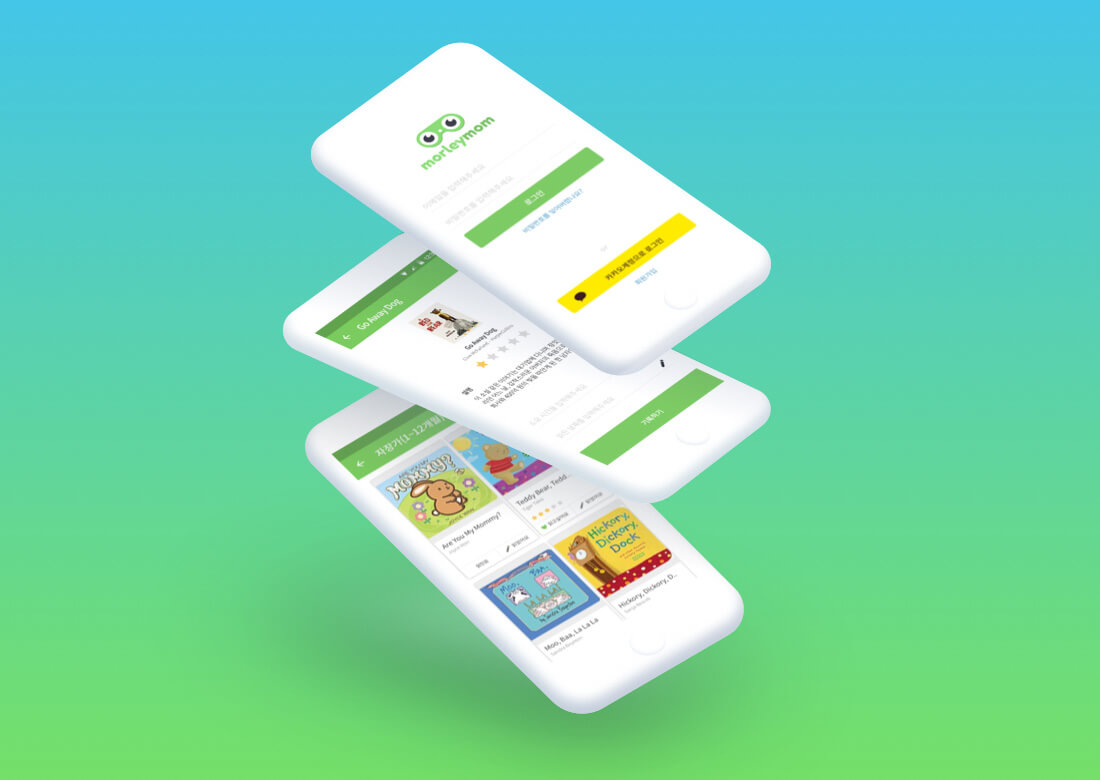
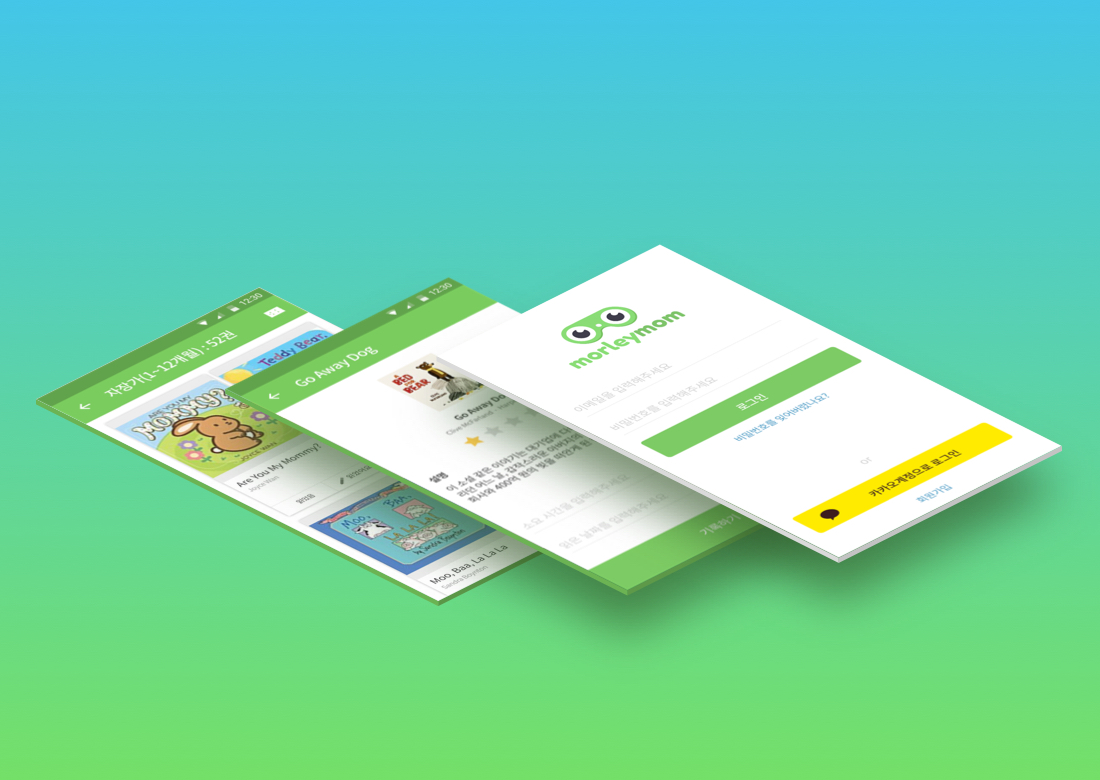
* Update content

diff --git a/src/views/projects/ebsrc.html b/src/views/projects/ebsrc.html
@@ -46,68 +46,139 @@
 				<a href="http://www.ebsreadingclub.com" target="_blank" class="button">사이트 바로가기</a>
 			</div>
 
-			<div class="visual">
-				<div class="fixed-wrap">
-					<img src="/contents/img/projects/ebsrc/device@2x.jpg" alt="Device" class="sa-v3" />
+			<ol class="image-pieces piece3 no-border fixed-wrap">
+				<li><img src="/contents/img/projects/ebsrc/app-mobile1@2x.jpg" alt="sketch1" /></li>
+				<li class="align-center">
+					<img src="/contents/img/projects/ebsrc/app-icon@2x.png" alt="sketch2" />
+					<p>
+						시간, 비용 등의 부족한 당신을 위해<br>
+					 	온라인에서든, 오프라인에서든<br>
+					 	쉽고 반복적으로<br>
+					 	오랫동안 함께 할 수 있는 서비스를 제공합니다.
+					</p>
+				</li>
+				<li><img src="/contents/img/projects/ebsrc/app-mobile2@2x.jpg" alt="sketch3" /></li>
+			</ol>
+
+			<div id="concept" class="description fixed-wrap">
+				<h4>Concept</h4>
+				<p>
+					국내 교육 시장에서 신뢰를 받는 EBS 미디어, 100년 이상의 오랜 역사와 전통을 가진 옥스포드 대학 출판부의 이미지를 시각화하기 위해<br>
+					연두와 파랑 두 가지 컬러를 대조시켜 배치함으로써 근명한 차이를 유도하였습니다.<br>
+					EBS 리딩클럽의 래플리카로 중국/일본 프로젝트를 동시에 진행했는데 사이트가 가진 Look & Feel을 유지할 수 있도록 한/중/일 언어를 제공하는 Noto Sans CJK 폰트를 사용하여 서비스의 일관성을 유지하도록 했습니다.
+				</p>
+
+				<div class="pieces">
+					<div id="concept-color">
+						<h5>Color</h5>
+						<ul>
+							<li>#78cd13</li>
+							<li>#1f2d5f</li>
+							<li>#ffffff</li>
+							<li>#BCAB74</li>
+						</ul>
+					</div>
+					<div id="concept-font">
+						<h5>Font</h5>
+						<ul>
+							<li>Noto Sans CJK KR DemiLight</li>
+							<li>Noto Sans CJK KR Medium</li>
+							<li>Noto Sans CJK KR Bold</li>
+						</ul>
+					</div>
 				</div>
 			</div>
 		</section>
 
-		<section class="sa-v2">
+		<section id="site-flow" class="sa-v2">
 			<div class="description fixed-wrap">
 				<h3>SITE FLOW</h3>
 				<p>
-					입사 후 처음 맡게 되는 프로젝트로서 서비스의 UI/UX를 진행했습니다.<br>
+					iPortfolio에서의 첫 번째 프로젝트로서, 자체 서비스의 UI/UX 업무를 진행했습니다. EBS 리딩클럽은 iOS, Android, Web을 제공하고 있는 멀티 크로스 플랫폼입니다.<br>
 					디자인, 개발이 동시에 진행되다 보니 디테일한 부분에서 Web, Android, iOS 개발자가 생각하는 완성된 기준이 달랐고,<br>
-					제공되는 기능 또한 적지 않아서 커뮤니케이션의 혼선을 줄이기 위해서 초기 작업은 프로세스 플로어 및 UI 가이드라인 작업에 집중했습니다.
+					제공되는 기능 또한 적지 않았습니다. 커뮤니케이션의 혼선을 줄이기 위해서 초기 작업은 프로세스 플로어, 사용자 인터페이스 및 UI 가이드라인 제작에 기여했습니다.
 				</p>
 			</div>
 
-			<div class="fixed-wrap">
-				<img src="/contents/img/projects/ebsrc/site-flow@2x.png" alt="Site flow" class="sa-v3" />
+			<div class="fixed-wrap wide">
+				<img src="/contents/img/projects/ebsrc/site-flow.jpg" alt="Site flow" class="sa-v3" />
 			</div>
 		</section>
 
-		<section id="idea-sketch" class="sa-v2">
-			<div class="description fixed-wrap">
-				<h3>IDEA SKETCH</h3>
-			</div>
+    <section id="signin" class="sa-v2 no-margin">
+      <div class="fixed-wrap wide">
+        <img src="/contents/img/projects/ebsrc/signin@2x.png" alt="signin" class="signin-img sa-v3" />
+      </div>
+    </section>
 
-			<ol class="image-pieces piece2 no-border fixed-wrap">
-				<li><img src="/contents/img/projects/ebsrc/sketch1@2x.png" alt="sketch1" /></li>
-				<li><img src="/contents/img/projects/ebsrc/sketch2@2x.png" alt="sketch2" /></li>
-			</ol>
-		</section>
+    <section id="features" class="sa-v2 no-margin">
+      <div id="bookshelf" class="wide">
+        <div class="fixed-wrap absolute-wrap">
+          <h3>Bookshelf</h3>
+          <p>
+            회원 가입을 하면 시리즈를 대표하는 도서 20권이 무료로 제공됩니다.<br>
+            자체적으로 개발한 MDR 학습법은 도서를 읽는 기능과 더불어 책 속에 있는<br>
+            단어와 문장들로 스펠링/카드 게임, 듣기, 말하기 기능을 제공합니다.<br>
+            Web으로 접근 시 데스크톱에서만 이용할 수 있고,<br>
+            태블릿과 모바일 디바이스를 사용하고 싶으면 앱을 다운로드 받아 사용할 수 있습니다.
+          </p>
+          <img src="/contents/img/projects/ebsrc/bookshelf@2x.png" alt="signin" class="signin-img sa-v3" />
+        </div>
+      </div>
 
-		<section id="design" class="sa-v2">
-			<div class="description fixed-wrap">
-				<h3>DESIGN</h3>
-				<p>
-					PC와 모바일의 반응형 디자인
-				</p>
-			</div>
+      <div id="attendance" class="wide">
+        <div class="fixed-wrap absolute-wrap">
+          <h3>Attendance</h3>
+          <p>
+            최초 시나리오는 사용자가 출석 버튼을 직접 눌러 기록하는 방식이었습니다.<br>
+            그로 인해 발생한 문제점은 출석에 대한 보상 효과가 메달 아이콘 이외는
+            제공되지 않아 사용자는 기능이 존재하는지 모르는 경우가 대부분이었습니다.<br>
+            개선하는 방법으로 사용자가 로그인하면 자동 출석 되는 시스템으로 변경하였습니다.<br>
+            서비스를 언제 이용했는지 학습일을 기록할 수 있어 변경된 방식이 만족스럽다는 피드백을 받았습니다.
+          </p>
 
-			<ol class="image-pieces fixed-wrap">
-				<li><img src="/contents/img/projects/ebsrc/design1@2x.jpg" alt="design1" /></li>
-        <li><img src="/contents/img/projects/ebsrc/design2@2x.jpg" alt="design2" /></li>
-				<li><img src="/contents/img/projects/ebsrc/design3@2x.jpg" alt="design3" /></li>
-        <li><img src="/contents/img/projects/ebsrc/design4@2x.jpg" alt="design4" /></li>
-			</ol>
-		</section>
+          <img src="/contents/img/projects/ebsrc/attendance@2x.png" alt="attendance" class="attendance-img sa-v3" />
+        </div>
+      </div>
 
-    <!--<section>-->
-      <!--<div class="description fixed-wrap">-->
-        <!--<h3>SERVICE DESIGN PROCESS</h3>-->
-        <!--<p>-->
-          <!--간단한 설명 필요-->
-        <!--</p>-->
-      <!--</div>-->
+      <div id="medal" class="wide">
+        <div class="fixed-wrap">
+          <h3>Medal system</h3>
+          <p>
+            출석 및 단어 암기, 녹음 문장 작성하기 등 보상을 위해 매달 시스템을 만들었습니다.
+          </p>
+        </div>
 
-      <!--<ol class="image-pieces fixed-wrap">-->
-        <!--<li><img src="/contents/img/projects/ipf/site-before.png" alt="before" /></li>-->
-        <!--<li><img src="/contents/img/projects/ipf/site-after.png" alt="after" /></li>-->
-      <!--</ol>-->
-    <!--</section>-->
+        <div class="process fixed-wrap">
+          <h4>initial logo concept</h4>
+          <ul class="image-pieces nowrap no-border">
+            <li><img src="/contents/img/projects/ebsrc/sketch-medal1@2x.png" alt="sketch1" class="sa-v3" /></li>
+            <li><img src="/contents/img/projects/ebsrc/sketch-medal2@2x.png" alt="sketch1" class="sa-v3" /></li>
+            <li><img src="/contents/img/projects/ebsrc/sketch-medal3@2x.png" alt="sketch1" class="sa-v3" /></li>
+            <li><img src="/contents/img/projects/ebsrc/sketch-medal4@2x.png" alt="sketch1" class="sa-v3" /></li>
+          </ul>
+        </div>
+
+        <div class="process fixed-wrap">
+          <h4>Final Design</h4>
+          <img src="/contents/img/projects/ebsrc/medal@2x.png" alt="medal" class="sa-v3" />
+        </div>
+      </div>
+
+      <div id="viewer" class="wide">
+        <div class="fixed-wrap absolute-wrap">
+          <h3>Viewer</h3>
+          <p>
+            게임을 통해 책 속에 있는 단어에 자연스럽게 익숙해질 수 있는 방식을 제안했습니다.<br>
+            그림 카드 맞추기, 스펠링 맞추기 게임을 제공합니다. 또 책 속 이미지를 Drag and Drop 해<br>
+            이야기 순서 맞추기, 지문의 내용 맞히기, 빈칸에 들어갈 낱말 선택하기 등 다섯 종류의 스토리 게임을 제공합니다.<br>
+            이 방식은 게임을 통해 단어의 의미를 이해할 수 있고,<br>
+            영어에 대한 자신감과 사운드(청각), 그림 카드(시각)를 통해 영어에 두 번 이상 자연스럽게 노출되는 효과를 줍니다.<br>
+          </p>
+          <img src="/contents/img/projects/ebsrc/viewer@2x.png" alt="viewer" class="sa-v3" />
+        </div>
+      </div>
+    </section>
 	</article>
 
 	<footer class="fixed-wrap sa-v2">

diff --git a/src/contents/css/scss/pages/projects-detail/ebsrc.scss b/src/contents/css/scss/pages/projects-detail/ebsrc.scss
@@ -9,16 +9,176 @@
     background-color: #f9f9f9;
   }
 
-  #design {
+  .no-margin {
+    margin: 0;
+  }
+
+  #the-project {
     .image-pieces {
       li {
-        border: 0;
+        flex-basis: 35%;
       }
-      li:nth-child(1n) {
-        flex-basis: 36%;
+
+      li:nth-child(2) {
+        flex-basis: 30%;
+        text-align: center;
+
+        img {
+          display: inline-block;
+          width: 180px;
+          height: 180px;
+        }
       }
-      li:nth-child(2n) {
-        flex-basis: 13%;
+    }
+  }
+
+  #concept {
+    text-align: left;
+    color: #222;
+
+    & > p {
+      margin-bottom: 60px;
+    }
+
+    h4 {
+      margin-bottom: 0;
+      font-size: 5rem;
+      text-transform: none;
+    }
+
+    .pieces {
+      display: flex;
+      justify-content: space-between;
+
+      & > div {
+        flex-basis: 50%;
+      }
+
+      h5 {
+        font-size: 3rem;
+        font-weight: 500;
+        margin-bottom: 30px;
+      }
+    }
+
+    #concept-color {
+      ul {
+        display: flex;
+        justify-content: flex-start;
+      }
+
+      li {
+        font-size: 1.4rem;
+
+        &::before {
+          display: block;
+          content: "";
+          margin-right: 15px;
+          margin-bottom: 7px;
+          width: 100px;
+          height: 100px;
+          background-color: #78cd13;
+          border: solid 1px #eee;
+        }
+
+        &:nth-child(2) {
+          &::before {
+            background-color: #1f2d5f;
+          }
+        }
+
+        &:nth-child(3) {
+          &::before {
+            background-color: #fff;
+          }
+        }
+
+        &:nth-child(4) {
+          &::before {
+            background-color: #bcab74;
+          }
+        }
+      }
+    }
+
+    #concept-font {
+      li {
+        margin-bottom: 20px;
+        text-align: left;
+        font-size: 1.8rem;
+      }
+
+      li:nth-child(2) {
+        font-weight: 500;
+      }
+
+      li:nth-child(3) {
+        font-weight: 800;
+      }
+    }
+  }
+
+  #site-flow {
+    margin-bottom: 0;
+
+    img {
+      vertical-align: bottom;
+    }
+  }
+
+  #features {
+    .fixed-wrap {
+      padding-top: 170px;
+    }
+    h3 {
+      font-size: 12rem;
+      font-family: Anton;
+      font-weight: normal;
+      line-height: 1;
+      text-transform: none;
+    }
+    p {
+      font-size: 1.6rem;
+    }
+
+    #bookshelf {
+      background: #f9f9f9;
+    }
+
+    #attendance {
+      p {
+        margin-bottom: 100px;
+      }
+    }
+
+    #medal {
+      .image-pieces li {
+        margin-right: 20px;
+      }
+
+      .process {
+        padding-top: 100px;
+      }
+    }
+
+    .absolute-wrap {
+      position: relative;
+
+      h3, p {
+        position: absolute;
+        z-index: 1;
+      }
+
+      h3 {
+        top: 170px;
+      }
+
+      p {
+        top: 340px;
+      }
+
+      img {
+        vertical-align: bottom;
       }
     }
   }

diff --git a/src/index.html b/src/index.html
@@ -25,6 +25,7 @@
   <!-- end favicon set -->
 
   <link href="https://fonts.googleapis.com/css?family=Noto+Sans+KR:300,500,700&amp;subset=korean" rel="stylesheet">
+  <link href="https://fonts.googleapis.com/css?family=Anton" rel="stylesheet">
   <!-- inject:css -->
   <link rel="stylesheet" type="text/css" href="contents/css/main.css" />
   <!-- endinject -->

diff --git a/src/contents/css/scss/pages/projects-detail/template.scss b/src/contents/css/scss/pages/projects-detail/template.scss
@@ -174,6 +174,10 @@ $strong-color: #222;
       border: none;
     }
   }
+
+  &.nowrap {
+    flex-wrap: nowrap;
+  }
 }
 
 
